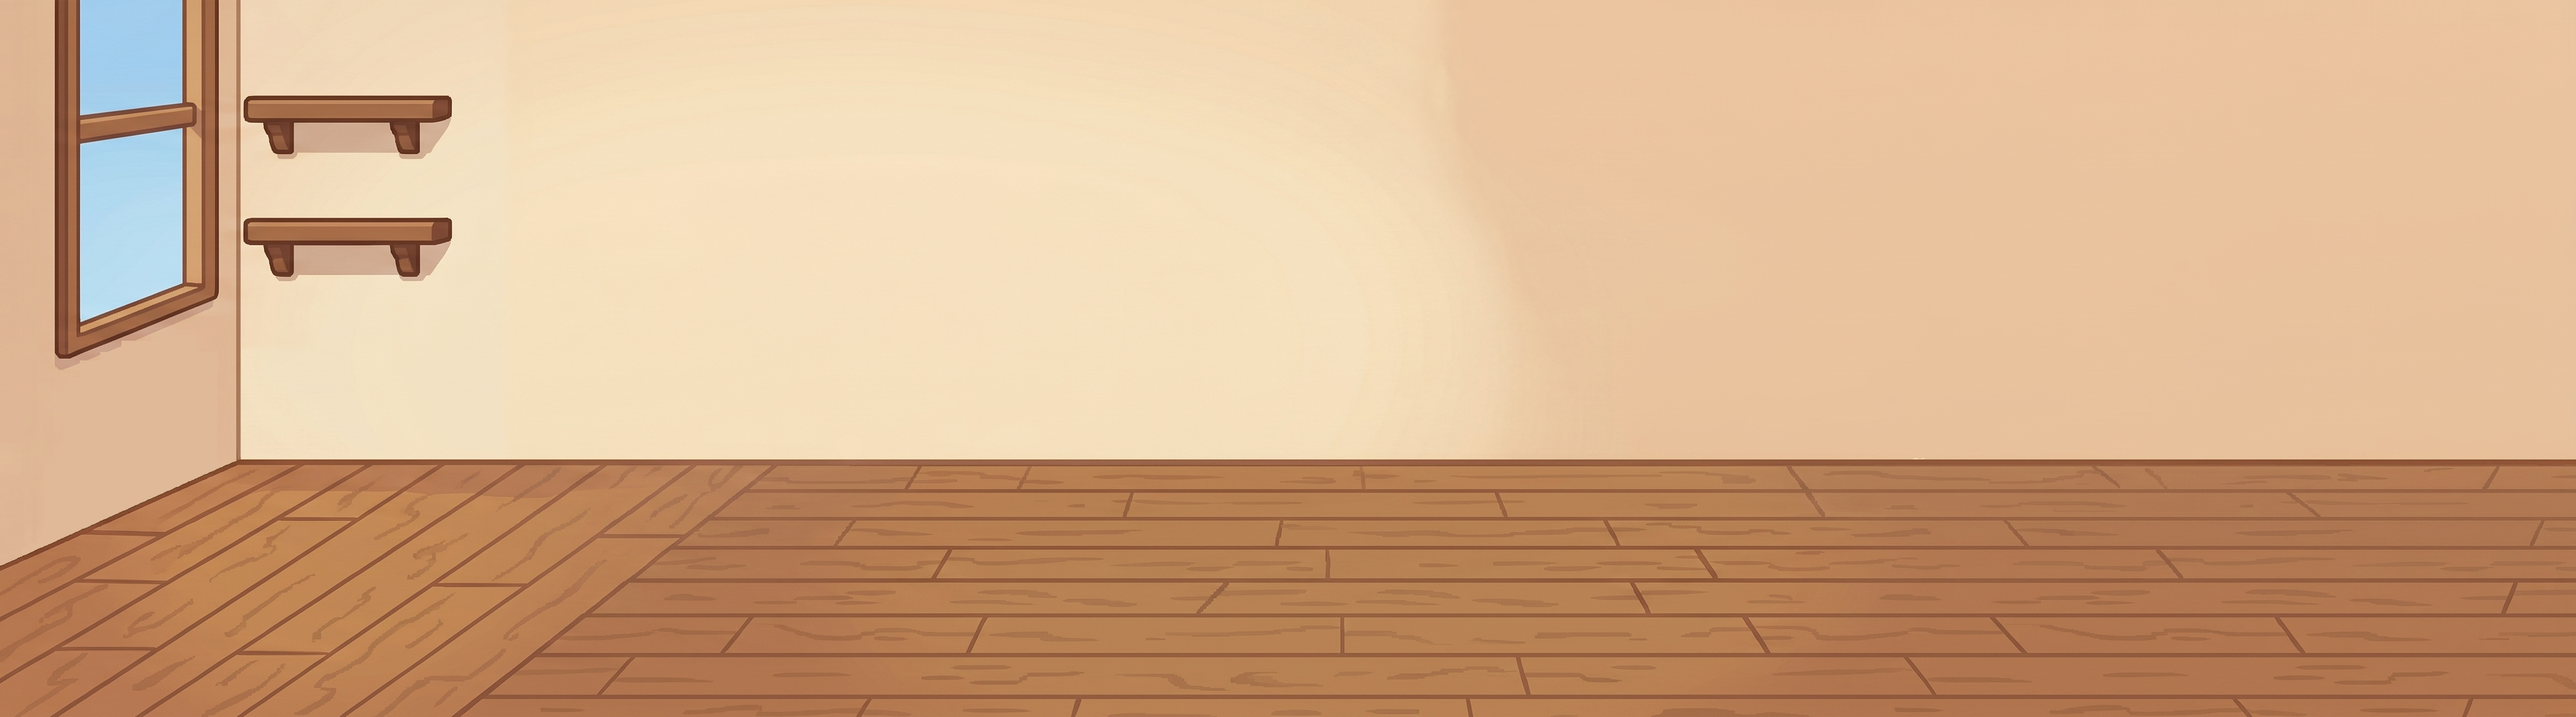
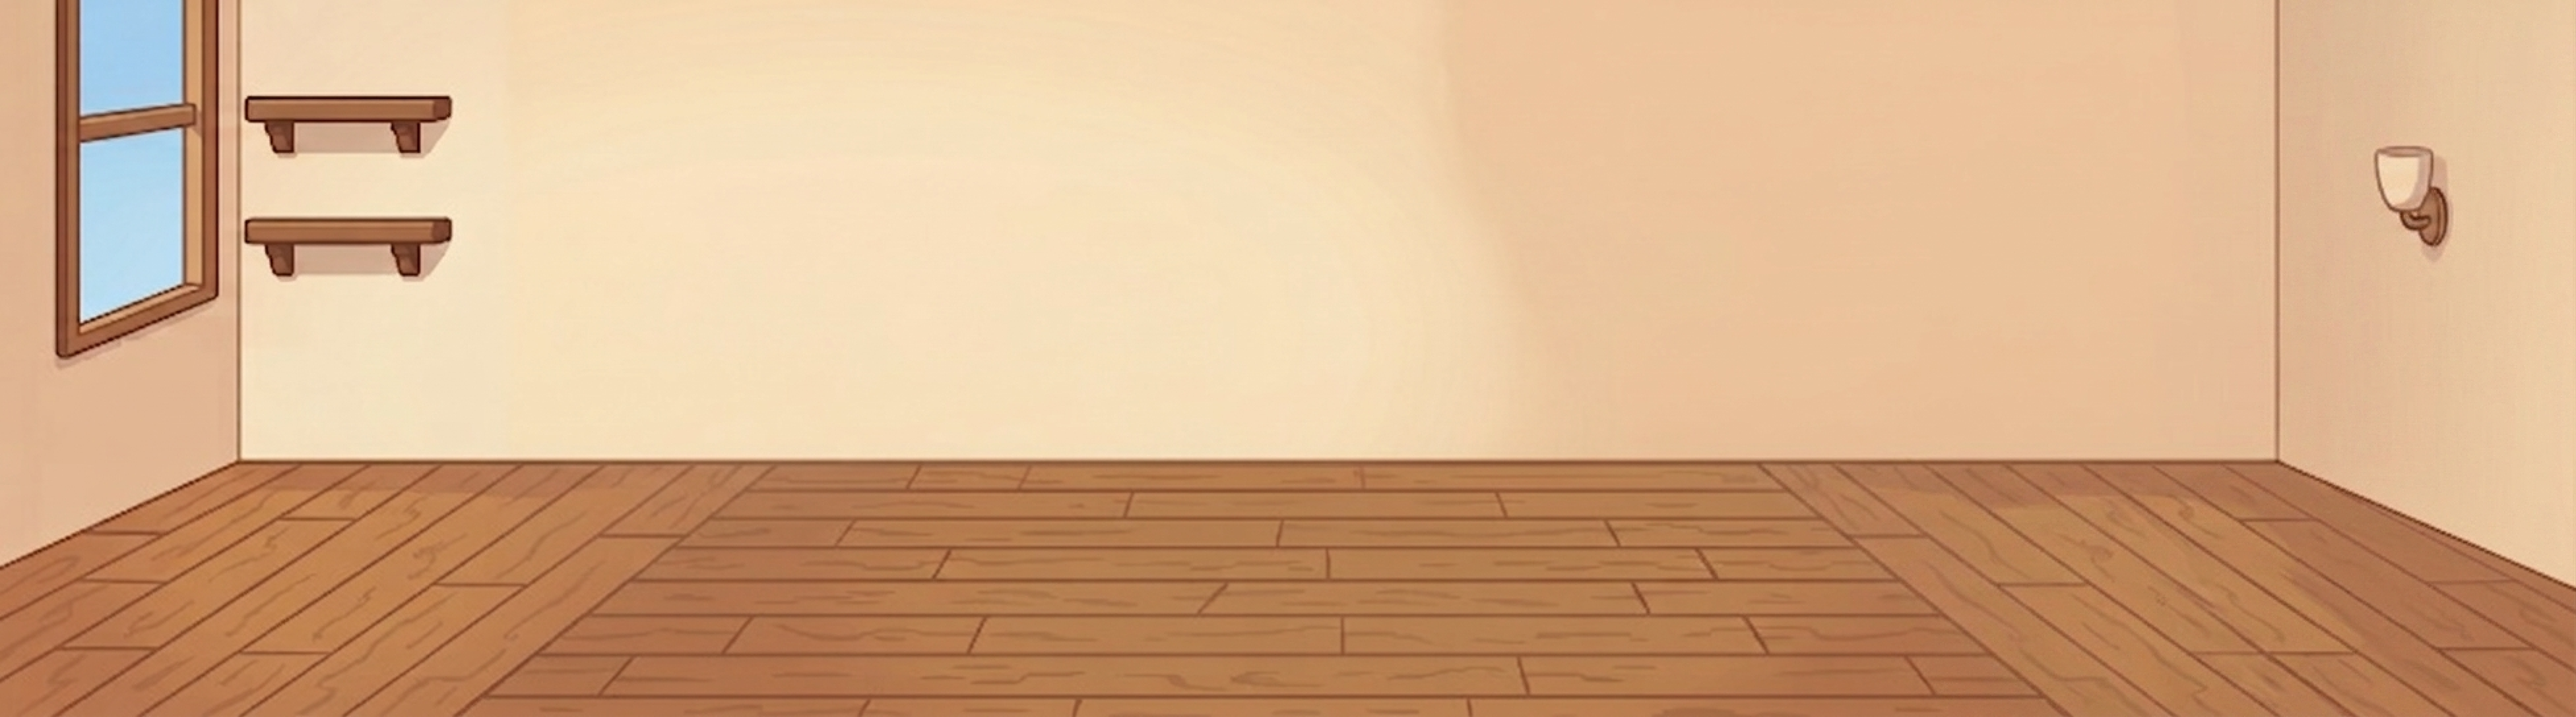
(feat) The drawer's tab is the way into the den; the den button goes
Two controls that both pulled out the same bar was one too many. The pull tab already
meant "I want to arrange my den", so den mode now hangs off DenInventory's
opened_changed: pulling the drawer out clears the chrome and remembers where you came
from, pushing it back puts you there. Escape closes the drawer rather than the mode, so
there's a single path in and out, and the mode handler stays silent because the drawer
already plays its own open/close sound.

That also retires the placeholder icon, which was a leftover purple planet from the
planetoid days and looked it — no replacement art needed after all.

Takes the artist's fixed wide-background.png with it. The room now closes at both ends:
the right side gained an angled wall with a sconce, mirroring the left corner, with the
seam at design x 1725. Re-measured everything the den is keyed to and it all still
holds — the wall/floor junction is still design y 348, the shelves haven't moved, and
the left corner is still x 180. So no constants change.

Worth noting for Phase 2b: that right corner was the last thing blocking horizontal
panning, and it means the flat back wall runs x 183 to 1723 rather than the full room
width, so hung finds will need to stop clear of both ends once they can be reached.

diff --git a/context/den-room-plan.md b/context/den-room-plan.md
@@ -89,7 +89,8 @@ Geometry, in design px after the 0.5 scale:
 | Room size | 3904 × 1088 | **1952 × 544** |
 | Wall/floor junction | y 697 | **y 348.5** |
 | Floor depth (junction → bottom) | 391 | **195.5** |
-| Corner — angled side wall ends | x 361 | **x 180** |
+| Left corner — angled side wall ends | x 361 | **x 180** |
+| Right corner — angled side wall starts | x 3451 | **x 1725** |
 | Window (on the angled wall) | x 60–320 | x 30–160 |
 | Upper shelf (plank top) | y 145, x 380–684 | **y 72.5, x 190–342** |
 | Lower shelf (plank top) | y 331, x 380–684 | **y 165.5, x 190–342** |
@@ -184,16 +185,14 @@ scatter everyone's furniture 60px into the wall.
 
 Mostly delivered. What's left:
 
-1. **A right end for the room.** The wall and floor cut off flat at x=1952 — panning
-   right hits a raw edge. Mirror the left corner, or put a door there.
+1. ~~**A right end for the room.**~~ **Done.** The room now closes at both ends: an
+   angled side wall with a sconce, mirroring the left corner. The seam sits at design
+   **x ≈ 1725**, so the flat back wall runs x 183 → 1723 and wall-mounted finds have to
+   stop clear of both corners once panning makes them reachable. **This was the last
+   thing blocking Phase 2b.**
 2. **A contact shadow.** ~64 × 20, soft black ellipse on transparent, one file reused by
    every find. Nothing the fox brings home currently casts a shadow (see Phase 3) and
    this is the highest-impact sprite left in the pass.
-3. **A den icon**, 43×46 to match every other icon in `assets/main_menu/icons/`, in the
-   journal icon's warm painted hand. Den mode currently borrows `customize.png` — the
-   right name, but the art is a leftover purple planet from the planetoid days and it
-   looks it. Swapping the file is the whole change.
-
 4. **More finds.** Nine now fill ~40% of the floor. The room is built for roughly 18 —
    no rush, the ladder is meant to unspool over patches.
 5. **Shelves are done** — two are baked into the wall, and they become surfaces for
@@ -259,16 +258,18 @@ since it's load-bearing by accident.
 
 ### Getting in and out
 
-A `DenIcon` `TextureButton` in `MenuLayer` under the journal icon —
-`offset_left = 902, offset_top = 78`, 43×46, the size every icon in
-`assets/main_menu/icons/` already is. `customize.png` is the obvious glyph and is
-otherwise unused. Swap to `home-icon.png` while open, the pattern the journal icon uses
-at [world.gd:745](../src/world/world.gd#L745).
+The drawer's pull tab, and nothing else. Pulling the drawer open already meant "I want
+to arrange my den", so a separate button that did the same thing was one control too
+many — two ways to bring out the same bar. Hanging the mode off the tab also makes what
+the tab is *for* obvious rather than something to discover.
 
-The journal and the den are mutually exclusive; each opener closes the other. Escape
-leaves den mode — but `JournalBook` handles its own Escape in `_unhandled_key_input`, so
-world.gd's handler must check the journal isn't visible first or the two fight over the
-key.
+`DenInventory.opened_changed` drives it: open enters den mode and remembers where you
+came from, closed returns you there. Escape closes the drawer rather than the mode, so
+there's one path in and out. The drawer plays its own open/close sound, so the mode
+handler deliberately stays quiet.
+
+The journal and the den are mutually exclusive full-window states; opening the journal
+or the settings panel closes the drawer, which drops out of den mode as a side effect.
 
 ### The finds in the other modes
 
@@ -574,7 +575,6 @@ earned, everything casting a shadow.
 
 ## Open questions
 
-1. **The right end of the room** — mirrored corner, or a door?
 2. **The upper shelf behind the stats panel** — move the panel, or let it be a den-mode
    reward?
 3. **Does the pan hard-stop or rubber-band at the ends?** Rubber-band feels better and is
